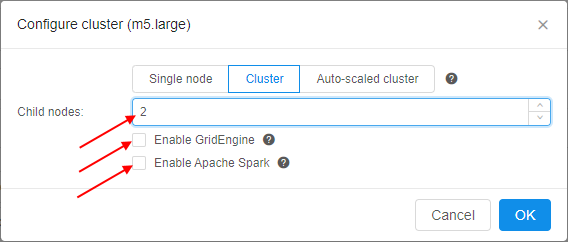
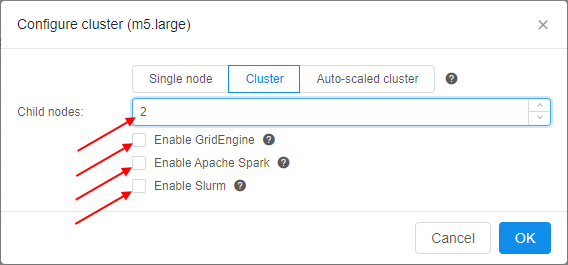
Description of Slurm using was added into RN and docs

diff --git a/docs/md/manual/06_Manage_Pipeline/6._Manage_Pipeline.md b/docs/md/manual/06_Manage_Pipeline/6._Manage_Pipeline.md
@@ -198,7 +198,7 @@ A configuration specifies:
 |  | **Docker image** | A name of a Docker image to use for a pipeline execution (e.g. "library/gromacs-gpu"). |
 |  | **Node type** | An instance type in terms of the specific Cloud Provider: CPU, RAM, GPU (e.g. 2 CPU cores, 8 Gb RAM, 0 GPU cores). |
 |  | **Disk** | Size of a disk in gigabytes, that will be attached to the instance in Gb. |
-|  | **Configure cluster** button | On-click, pop-up window will be shown:<br />![CP_ManagePipeline](attachments/ManagePipeline_07.png)<br />Here you can configure cluster or auto-scaled cluster. Cluster is a collection of instances which are connected so that they can be used together on a task. In both cases, a number of additional worker nodes with some main node as cluster head are launching (total number of pipelines = "number of working nodes" + 1). See [v.0.14 - 7.2. Launch Detached Configuration](../07_Manage_Detached_configuration/7.2._Launch_Detached_Configuration.md) for details.<br /><br />In case of using **cluster**, an exact count of worker nodes is directly defined by the user before launching the task and could not changing during the run.<br /><br />In case of using **auto-scaled cluster**, a max count of worker nodes is defined by the user before launching the task but really used count of worker nodes can change during the run depending on the jobs queue load. See [Appendix C. Working with autoscaled cluster runs](../Appendix_C/Appendix_C._Working_with_autoscaled_cluster_runs.md) for details.<br /><br />For configure cluster:<ul><li>in opened window click **Cluster** button</li><li>specify a number of child nodes (workers' count)</li><li>if you want to use **GridEngine** server for the cluster, tick the **Enable GridEngine** checkbox. Setting of that checkbox automatically adds the **`CP_CAP_SGE`** system parameter with value `true`.<br />**_Note_**: you may set this and other system parameters manually - see the example of using system parameters [here](6.1._Create_and_configure_pipeline.md#example-create-a-configuration-that-uses-system-parameter).</li><li>if you want to use **Apache Spark** for the cluster, tick the **Enable Apache Spark** checkbox. Setting of that checkbox automatically adds the **`CP_CAP_SPARK`** system parameter with value `true`. See the example of using **Apache Spark** [here](../15_Interactive_services/15.4._Interactive_service_examples.md#running-apache-spark-cluster-with-rstudio-web-gui).</li><li>click **OK** button:</li>![CP_ManagePipeline](attachments/ManagePipeline_08.png)</ul><blockquote>When user selects **Cluster** option, information on total cluster resources is shown. Resources are calculated as **(CPU/RAM/GPU)\*(NUMBER\_OF\_WORKERS\+1)**:<br />![CP_ManagePipeline](attachments/ManagePipeline_09.png)</blockquote><br />For configure **auto-scaled cluster**:<ul><li>in opened window click **Auto-scaled cluster** button</li><li>specify a number of child nodes (workers' count) in field **Auto-scaled up to** and click **OK** button:</li>![CP_ManagePipeline](attachments/ManagePipeline_10.png)<br />**_Note_**: that number is meaning total count of "auto-scaled" nodes - it is the max count of worker nodes that could be attached to the main node to work together as cluster. These nodes will be attached to the cluster only in case if some jobs are in waiting state longer than a specific time. Also these nodes will be dropped from the cluster in case when jobs queue is empty or all jobs are running and there are some idle nodes longer than a specific time.<br />**_Note_**: about timeout periods for scale-up and scale-down of auto-scaled cluster see [here](../12_Manage_Settings/12.10._Manage_system-level_settings.md#grid-engine-autoscaling).<li>also you may specify a number of "persistent" child nodes (workers' count) - click **Setup default child nodes count**, input **Default child nodes** number and click **Ok** button:</li>![CP_ManagePipeline](attachments/ManagePipeline_11.png)<br />These default child nodes will be never "scaled-down" during the run regardless of jobs queue load. In the example above, total count of "auto-scaled" nodes - 3, and 1 of them is "persistent".<br />**_Note_**: total count of child nodes always must be greater than count of default ("persistent") child nodes.<li>if you don't want to use default ("persistent") child nodes in your auto-scaled cluster - click **Reset** button opposite the **Default child nodes** field.</li></ul><blockquote>When user selects **Auto-scaled cluster**, information on total cluster resources is shown as interval - from the "min" configuration to "max" configuration:<br />"min" configuration resources are calculated as **(CPU/RAM/GPU)\*(NUMBER\_OF\_DEFAULT\_WORKERS\+1)**<br />"max" configuration resources are calculated as **(CPU/RAM/GPU)\*(TOTAL\_NUMBER\_OF\_WORKERS\+1)**<br /><br />E.g. for auto-scaled cluster with 2 child nodes and without default ("persistent") child nodes _(NUMBER\_OF\_DEFAULT\_WORKERS = 0; TOTAL\_NUMBER\_OF\_WORKERS = 2)_:<br />![CP_ManagePipeline](attachments/ManagePipeline_12.png)<br /><br />E.g. for auto-scaled cluster with 2 child nodes and 1 default ("persistent") child node _(NUMBER\_OF\_DEFAULT\_WORKERS = 1; TOTAL\_NUMBER\_OF\_WORKERS = 2)_:<br />![CP_ManagePipeline](attachments/ManagePipeline_13.png)</blockquote>**_Note_**: if you don't want to use any cluster - click **Single node** button and then click **OK** button. |
+|  | **Configure cluster** button | On-click, pop-up window will be shown:<br />![CP_ManagePipeline](attachments/ManagePipeline_07.png)<br />Here you can configure cluster or auto-scaled cluster. Cluster is a collection of instances which are connected so that they can be used together on a task. In both cases, a number of additional worker nodes with some main node as cluster head are launching (total number of pipelines = "number of working nodes" + 1). See [v.0.14 - 7.2. Launch Detached Configuration](../07_Manage_Detached_configuration/7.2._Launch_Detached_Configuration.md) for details.<br /><br />In case of using **cluster**, an exact count of worker nodes is directly defined by the user before launching the task and could not changing during the run.<br /><br />In case of using **auto-scaled cluster**, a max count of worker nodes is defined by the user before launching the task but really used count of worker nodes can change during the run depending on the jobs queue load. See [Appendix C. Working with autoscaled cluster runs](../Appendix_C/Appendix_C._Working_with_autoscaled_cluster_runs.md) for details.<br /><br />For configure cluster:<ul><li>in opened window click **Cluster** button</li><li>specify a number of child nodes (workers' count)</li><li>if you want to use **GridEngine** server for the cluster, tick the **Enable GridEngine** checkbox. Setting of that checkbox automatically adds the **`CP_CAP_SGE`** system parameter with value `true`.<br />**_Note_**: you may set this and other system parameters manually - see the example of using system parameters [here](6.1._Create_and_configure_pipeline.md#example-create-a-configuration-that-uses-system-parameter).</li><li>if you want to use **Apache Spark** for the cluster, tick the **Enable Apache Spark** checkbox. Setting of that checkbox automatically adds the **`CP_CAP_SPARK`** system parameter with value `true`. See the example of using **Apache Spark** [here](../15_Interactive_services/15.4._Interactive_service_examples.md#running-apache-spark-cluster-with-rstudio-web-gui).</li><li>if you want to use **Slurm** for the cluster, tick the **Enable Slurm** checkbox. Setting of that checkbox automatically adds the **`CP_CAP_SLURM`** system parameter with value `true`. See the example of using **Slurm** [here](../15_Interactive_services/15.2._Using_Terminal_access.md#example-using-of-slurm-for-the-cloud-pipelines-clusters).</li><li>click **OK** button:</li>![CP_ManagePipeline](attachments/ManagePipeline_08.png)</ul><blockquote>When user selects **Cluster** option, information on total cluster resources is shown. Resources are calculated as **(CPU/RAM/GPU)\*(NUMBER\_OF\_WORKERS\+1)**:<br />![CP_ManagePipeline](attachments/ManagePipeline_09.png)</blockquote><br />For configure **auto-scaled cluster**:<ul><li>in opened window click **Auto-scaled cluster** button</li><li>specify a number of child nodes (workers' count) in field **Auto-scaled up to** and click **OK** button:</li>![CP_ManagePipeline](attachments/ManagePipeline_10.png)<br />**_Note_**: that number is meaning total count of "auto-scaled" nodes - it is the max count of worker nodes that could be attached to the main node to work together as cluster. These nodes will be attached to the cluster only in case if some jobs are in waiting state longer than a specific time. Also these nodes will be dropped from the cluster in case when jobs queue is empty or all jobs are running and there are some idle nodes longer than a specific time.<br />**_Note_**: about timeout periods for scale-up and scale-down of auto-scaled cluster see [here](../12_Manage_Settings/12.10._Manage_system-level_settings.md#grid-engine-autoscaling).<li>also you may specify a number of "persistent" child nodes (workers' count) - click **Setup default child nodes count**, input **Default child nodes** number and click **Ok** button:</li>![CP_ManagePipeline](attachments/ManagePipeline_11.png)<br />These default child nodes will be never "scaled-down" during the run regardless of jobs queue load. In the example above, total count of "auto-scaled" nodes - 3, and 1 of them is "persistent".<br />**_Note_**: total count of child nodes always must be greater than count of default ("persistent") child nodes.<li>if you don't want to use default ("persistent") child nodes in your auto-scaled cluster - click **Reset** button opposite the **Default child nodes** field.</li></ul><blockquote>When user selects **Auto-scaled cluster**, information on total cluster resources is shown as interval - from the "min" configuration to "max" configuration:<br />"min" configuration resources are calculated as **(CPU/RAM/GPU)\*(NUMBER\_OF\_DEFAULT\_WORKERS\+1)**<br />"max" configuration resources are calculated as **(CPU/RAM/GPU)\*(TOTAL\_NUMBER\_OF\_WORKERS\+1)**<br /><br />E.g. for auto-scaled cluster with 2 child nodes and without default ("persistent") child nodes _(NUMBER\_OF\_DEFAULT\_WORKERS = 0; TOTAL\_NUMBER\_OF\_WORKERS = 2)_:<br />![CP_ManagePipeline](attachments/ManagePipeline_12.png)<br /><br />E.g. for auto-scaled cluster with 2 child nodes and 1 default ("persistent") child node _(NUMBER\_OF\_DEFAULT\_WORKERS = 1; TOTAL\_NUMBER\_OF\_WORKERS = 2)_:<br />![CP_ManagePipeline](attachments/ManagePipeline_13.png)</blockquote>**_Note_**: if you don't want to use any cluster - click **Single node** button and then click **OK** button. |
 |  | **Cloud Region** | A specific region for a compute node placement.<br />Please note, if a non-default region is selected - certain CP features may be unavailable:<br /><ul><li>FS mounts usage from the another region (e.g. "_EU West_" region cannot use FS mounts from the "_US East_"). Regular storages will be still available</li><li>If a specific tool, used for a run, requires an on-premise license server (e.g. monolix, matlab, schrodinger, etc.) - such instances shall be run in a region, that hosts those license servers.</li></ul><blockquote>**_Note_**: if a specific platform deployment has a number of Cloud Providers registered (e.g. `AWS`+`Azure`, `GCP`+`Azure`) - in that control Cloud Provider auxiliary icons also will be displayed, e.g.:<br />![CP_ManagePipeline](../07_Manage_Detached_configuration/attachments/Manage_Detached_Configuration_5.png)<br />For a single-Provider deployments only Cloud Region icons are displayed.</blockquote> |
 | **Advanced** |  |  |
 |  | **Price type** | Choose Spot or On-demand type of instance. You can look information about price types hovering "Info" icon and based on it make your choice. |

diff --git a/docs/md/manual/15_Interactive_services/15.2._Using_Terminal_access.md b/docs/md/manual/15_Interactive_services/15.2._Using_Terminal_access.md
@@ -1,5 +1,9 @@
 # 15.2. Using Terminal access
 
+- [Using Terminal access](#using-terminal-access)
+- [Example: using of Environment Modules for the Cloud Pipeline runs](#example-using-of-environment-modules-for-the-cloud-pipeline-runs)
+- [Example: using of Slurm for the Cloud Pipeline's clusters](#example-using-of-slurm-for-the-cloud-pipelines-clusters)
+
 > **Terminal access** is available to the **OWNER** of the running job and users with **ADMIN** role. With sufficient permissions, **Terminal access** can be achieved to any running job.  
 > For more information see [13. Permissions](../13_Permissions/13._Permissions.md).
 >
@@ -112,3 +116,40 @@ Switch to the `JDK ver. 9.0.4`:
 ![CP_UsingTerminalAccess](attachments/TerminalAccess_20.png)  
 Unload all `JDK` versions:  
 ![CP_UsingTerminalAccess](attachments/TerminalAccess_19.png)  
+
+## Example: using of Slurm for the Cloud Pipeline's clusters
+
+[`Slurm`](https://slurm.schedmd.com) is an open source, highly scalable cluster management and job scheduling system for large and small `Linux` clusters.
+
+In the example below, we will use `Slurm` for performing the simplest batch job.
+
+1. Open the **Tools** page, select a tool and its version (**_Note_**: in our example we will use `Ubuntu 18.04`). Hover over the **v** button near the **Run** button and click the "Custom settings" item in the dropdown list.
+2. At the **Launch** page expand "Exec environment" section and click the "**Configure cluster**" button:  
+    ![CP_UsingTerminalAccess](attachments/TerminalAccess_22.png)
+3. In the appeared popup click the **Cluster** tab. Set the count of "child" nodes, tick the "Enable Slurm" checkbox and click the **OK** button to confirm:  
+    ![CP_UsingTerminalAccess](attachments/TerminalAccess_23.png)
+4. Launch the tool:  
+    ![CP_UsingTerminalAccess](attachments/TerminalAccess_24.png)
+5. Open the main Dashboard and wait until the **SSH** hyperlink will appear at the Active Runs panel for the just-launched tool, then click it:  
+    ![CP_UsingTerminalAccess](attachments/TerminalAccess_25.png)
+6. The terminal web GUI will appear.
+7. At the beginning, let's check general system state, view existing partitions in the system and the list of available nodes. For that, perform the `sinfo` command:  
+    ![CP_UsingTerminalAccess](attachments/TerminalAccess_26.png)  
+    Only `main.q` partition is created. All cluster nodes are attached to this partition.
+8. To report more detailed information about partition - the `scontrol` command can be used:  
+    ![CP_UsingTerminalAccess](attachments/TerminalAccess_27.png)  
+    And to display detailed information about one of the nodes, e.g.:  
+    ![CP_UsingTerminalAccess](attachments/TerminalAccess_28.png)
+9. Now, we'll parallely execute `/bin/hostname` on all three nodes (`-N3` option) and include task numbers in the output (`-l` option) via the `srun` command.  
+The default partition will be used. One task per node will be used by default:  
+    ![CP_UsingTerminalAccess](attachments/TerminalAccess_29.png)
+10. For the batch job, create the following script:  
+    ![CP_UsingTerminalAccess](attachments/TerminalAccess_30.png)  
+    This script contains a timelimit for the job embedded within itself (via the `--time` option after the `#SBATCH` prefix).  
+    Script contains the command `/bin/hostname` that will be executed on the first node in the allocation (where the script runs) plus two job steps initiated using the `srun` command and executed sequentially.  
+    To submit a job script for execution over all three nodes use the `sbatch` command, result will be written to the file (`-o` option):  
+    ![CP_UsingTerminalAccess](attachments/TerminalAccess_31.png)
+11. During the script execution you can check the queue of running jobs in priority order via the `squeue` command:  
+    ![CP_UsingTerminalAccess](attachments/TerminalAccess_32.png)
+12. The result of the `sbatch` command performing:  
+    ![CP_UsingTerminalAccess](attachments/TerminalAccess_33.png)

diff --git a/docs/md/release_notes/v.0.16/v.0.16_-_Release_notes.md b/docs/md/release_notes/v.0.16/v.0.16_-_Release_notes.md
@@ -15,6 +15,7 @@
 - [Displaying additional node metrics](#displaying-additional-node-metrics-at-the-runs-page)
 - [Export user list](#export-user-list)
 - [Displaying SSH link for the active runs in the Dashboard view](#displaying-ssh-link-for-the-active-runs-in-the-dashboard-view)
+- [Enable Slurm for the Cloud Pipeline's clusters](#enable-slurm-workload-manager-for-the-cloud-pipelines-clusters)
 
 ***
 
@@ -296,6 +297,20 @@ In **`v0.16`**, a new helpful capability was implemented that allows to open the
     ![CP_v.0.16_ReleaseNotes](attachments/RN016_SSHActiveRuns_2.png)
 
 That SSH link is available for all the non-paused active jobs (interactive and non-interactive) after all run's checks and initializations have passed (same as at the **Run logs** page).
+
+## Enable Slurm workload manager for the Cloud Pipeline's clusters
+
+A new feature for the Cloud Pipeline's clusters was implemented in **`v0.16`**.  
+Now, [**`Slurm`**](https://slurm.schedmd.com/overview.html) can be configured within the `Cluster` tab. It is available only for the fixed size clusters.
+
+To enable this feature - tick the `Enable Slurm` checkbox and set the child nodes count at cluster settings. By default, this checkbox is unticked. Also users can manually enable `Slurm` functionality by the `CP_CAP_SLURM` system parameter:  
+    ![CP_v.0.16_ReleaseNotes](attachments/RN016_SlurmCluster_1.png)
+
+This feature allows you to use the full stack of `Slurm` cluster's commands to allocate the workload over the cluster, for example:  
+    ![CP_v.0.16_ReleaseNotes](attachments/RN016_SlurmCluster_2.png)
+
+For more information about using `Slurm` via the `Cloud Pipeline` see
+[here](../../manual/15_Interactive_services/15.2._Using_Terminal_access.md#example-using-of-slurm-for-the-cloud-pipelines-clusters).
 
 ***
 

diff --git a/docs/md/release_notes/v.0.15/v.0.15_-_Release_notes.md b/docs/md/release_notes/v.0.15/v.0.15_-_Release_notes.md
@@ -925,8 +925,9 @@ Previously, the non-informative error message was shown if the paused run could'
 
 ### Broken layouts
 
-[#553](https://github.com/epam/cloud-pipeline/issues/553), [#619](https://github.com/epam/cloud-pipeline/issues/619), [#643](https://github.com/epam/cloud-pipeline/issues/643), [#644](https://github.com/epam/cloud-pipeline/issues/644)
+[#553](https://github.com/epam/cloud-pipeline/issues/553), [#619](https://github.com/epam/cloud-pipeline/issues/619), [#643](https://github.com/epam/cloud-pipeline/issues/643), [#644](https://github.com/epam/cloud-pipeline/issues/644), [#915](https://github.com/epam/cloud-pipeline/issues/915)
 
 Previously, **pipeline versions page** had broken layout if there were pipeline versions with long description.  
 **Global search page** was not rendered correctly when the search results table had too many records.  
+When a list of items in the **docker groups selection** dialog was long - it was almost impossible to use a search feature, as the list hid immediately.  
 Some of the other page layouts also were broken.
